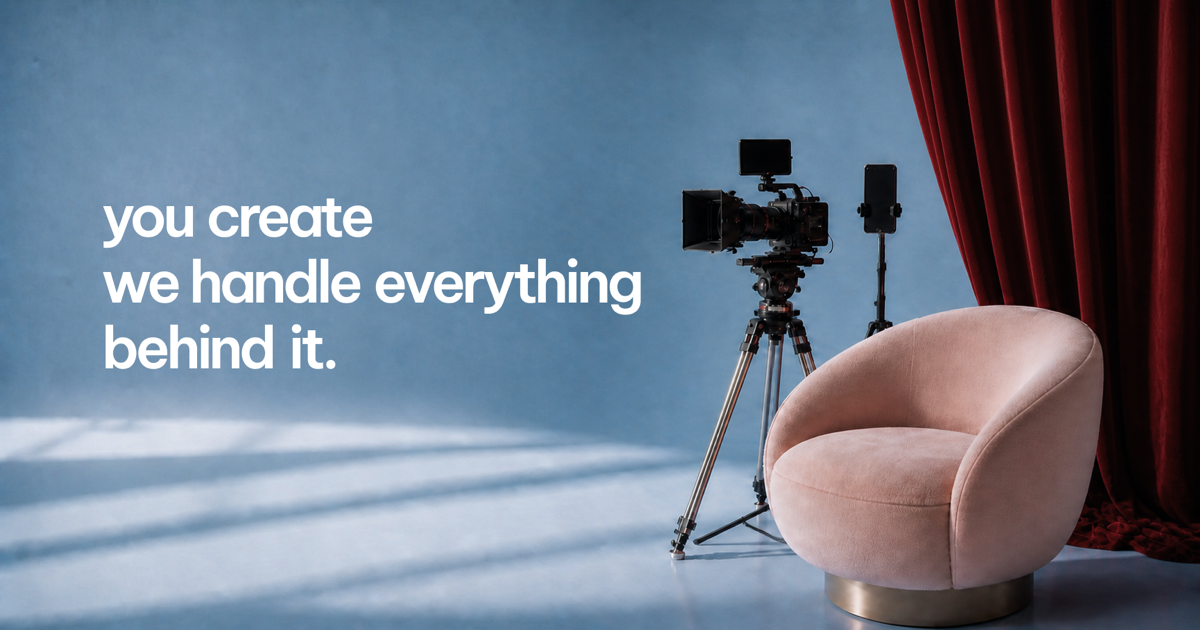
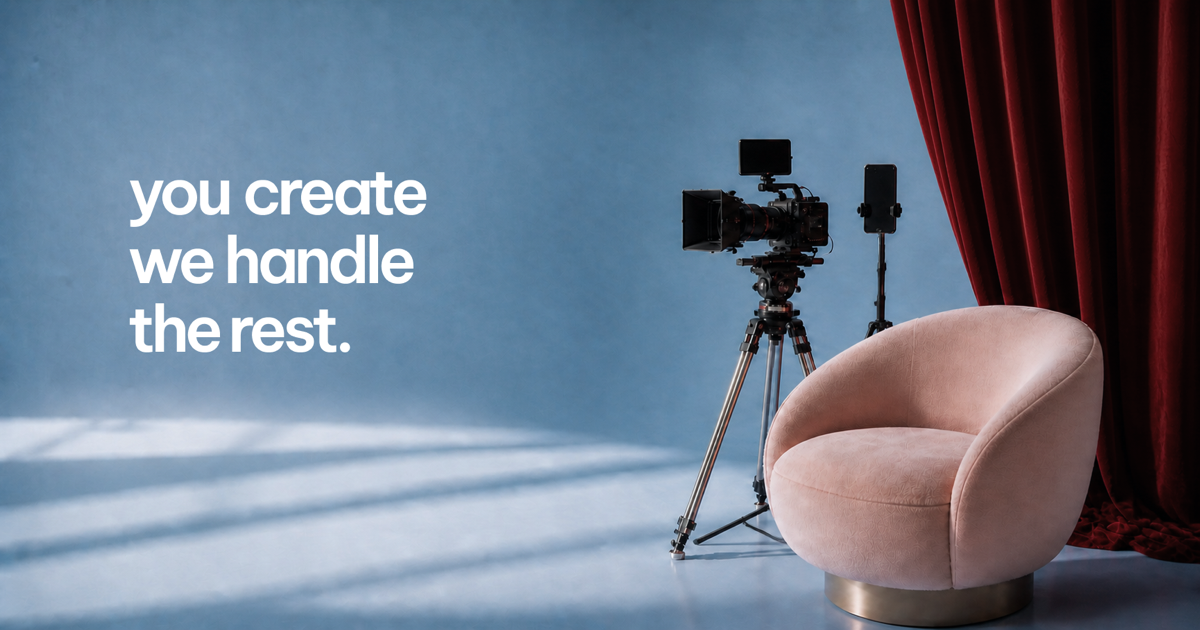
Use shorter Gwen social preview

Changed region(s): [[0.0617, 0.2714, 0.555, 0.6032]]

diff --git a/app/page.tsx b/app/page.tsx
@@ -7,15 +7,15 @@ export const metadata: Metadata = {
   description: "We handle the strategy, growth, messaging and daily operations so you can focus on content without burning out.",
   openGraph: {
     siteName: "Gwen Inc",
-    title: "You create. We handle everything behind it.",
+    title: "You create. We handle the rest.",
     description: "We handle the strategy, growth, messaging and daily operations so you can focus on content without burning out.",
     url: "https://gwen-care.vercel.app/",
     type: "website",
-    images: [{ url: "https://gwen-care.vercel.app/og.png", width: 1200, height: 630, alt: "You create. We handle everything behind it." }],
+    images: [{ url: "https://gwen-care.vercel.app/og.png", width: 1200, height: 630, alt: "You create. We handle the rest." }],
   },
   twitter: {
     card: "summary_large_image",
-    title: "You create. We handle everything behind it.",
+    title: "You create. We handle the rest.",
     description: "We handle the strategy, growth, messaging and daily operations so you can focus on content without burning out.",
     images: ["https://gwen-care.vercel.app/og.png"],
   },

diff --git a/app/layout.tsx b/app/layout.tsx
@@ -19,7 +19,7 @@ export async function generateMetadata(): Promise<Metadata> {
     openGraph: {
       title: "gwen — Creator growth, handled",
       description: "Content, growth and the work behind the scenes—done with you, every week.",
-      images: [{ url: image, width: 1200, height: 630, alt: "You create. We handle everything behind it." }],
+      images: [{ url: image, width: 1200, height: 630, alt: "You create. We handle the rest." }],
     },
     twitter: {
       card: "summary_large_image",
